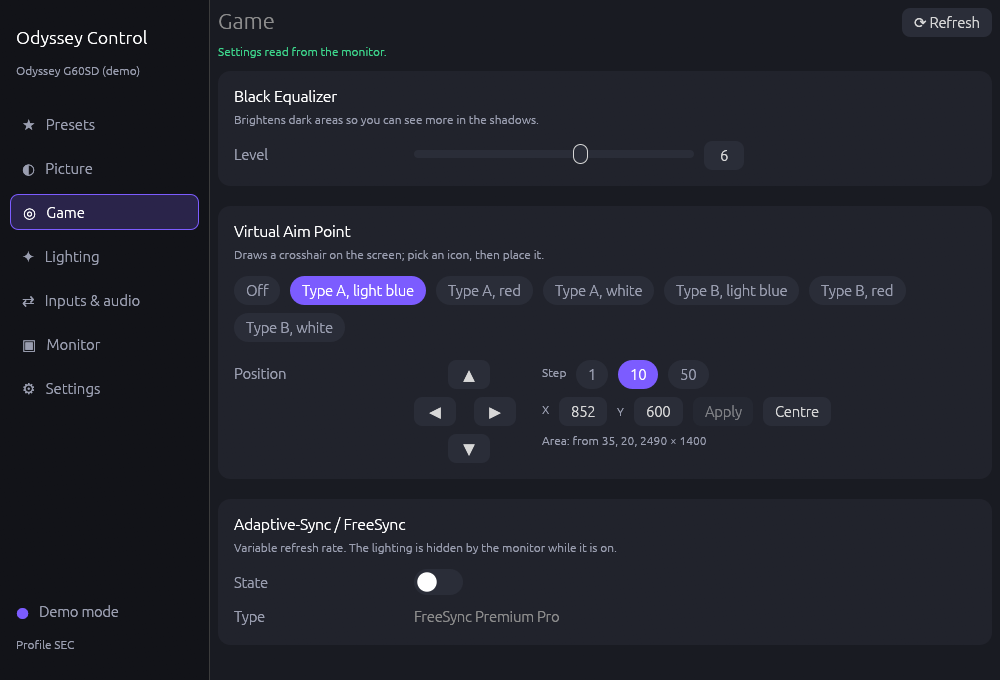
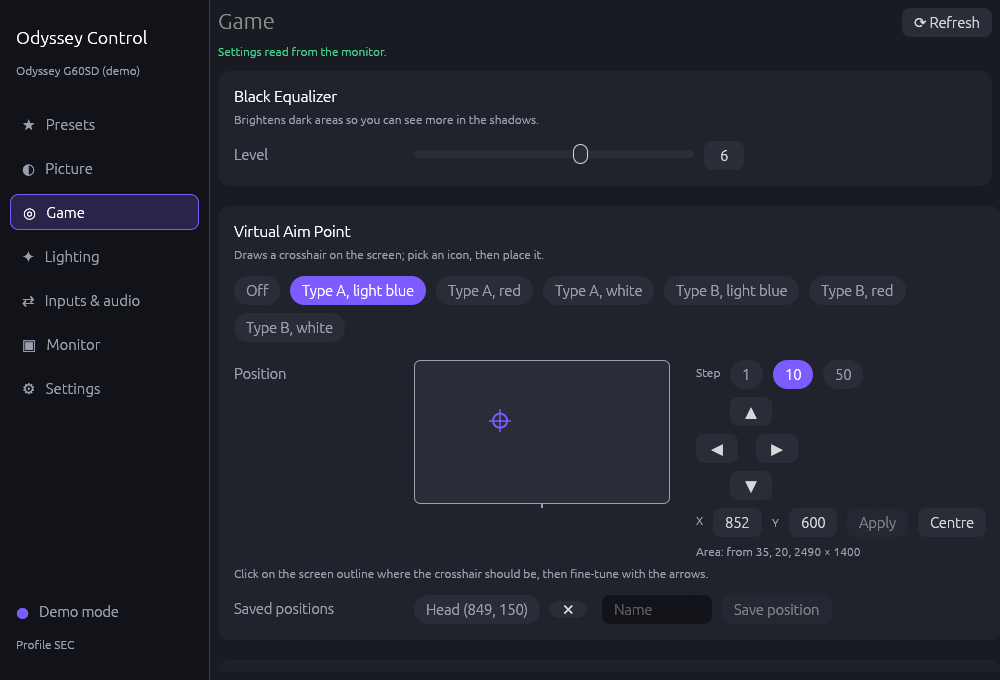
Aim point: clickable screen outline, saved positions, paced steps
Steps sent back to back are partly dropped by the firmware, so they go out 80 ms apart; the
icon is read again after a move so the GUI shows at once if the monitor switched it off.

diff --git a/src/gui/app.rs b/src/gui/app.rs
@@ -15,7 +15,7 @@ use odyssey_ctl::pip::{self, Channel, Source};
 use odyssey_ctl::presets as preset_logic;
 
 use crate::i18n::{Lang, tr};
-use crate::presets::{Preset, Presets};
+use crate::presets::{AimSpot, Preset, Presets};
 use crate::settings::Settings;
 use crate::theme::{self, ACCENT, ERR, OK, TEXT_DIM, WARN, dim};
 use crate::worker::{Action, Reply, Request, Worker};
@@ -114,6 +114,8 @@ pub struct App {
     /// Coordinates being typed for the aim point.
     aim_target: Option<Position>,
     aim_steps: u16,
+    /// Name typed for a saved crosshair position.
+    aim_name: String,
     displays: Option<Vec<DisplayInfo>>,
 }
 
@@ -166,6 +168,7 @@ impl App {
             aim_border: None,
             aim_target: None,
             aim_steps: 10,
+            aim_name: String::new(),
             displays: None,
         };
         app.load(true);
@@ -352,6 +355,9 @@ impl App {
                     self.aim_target = None;
                     if border.is_some() {
                         self.aim_border = border;
+                    } else {
+                        // After a move: show at once if the monitor switched the icon off.
+                        self.reread(&["aim-point"]);
                     }
                 }
                 Reply::Pip(status) => {
@@ -898,8 +904,9 @@ impl App {
         });
     }
 
-    /// Arrows, coordinates and a centre button for the crosshair. Its position and border are
-    /// read when first shown (stateful registers, so never with the other features).
+    /// Screen outline to click on, arrows, coordinates, centre button and saved positions for
+    /// the crosshair. Its position and border are read when first shown (stateful registers,
+    /// so never with the other features).
     fn aim_pad(&mut self, ui: &mut egui::Ui) {
         if self.aim_position.is_none() && !self.busy() {
             self.request(Request::AimState);
@@ -917,7 +924,21 @@ impl App {
         let mut target = None;
         theme::row(ui, &label, |ui| {
             ui.add_enabled_ui(enabled, |ui| {
+                if let Some(b) = self.aim_border {
+                    if let Some(p) = screen_pad(ui, b, pos, self.aim_target) {
+                        target = Some(p);
+                    }
+                    ui.add_space(16.0);
+                }
                 ui.vertical(|ui| {
+                    ui.horizontal(|ui| {
+                        ui.label(dim(self.t("aim.steps")));
+                        for n in [1u16, 10, 50] {
+                            if theme::chip(ui, self.aim_steps == n, &n.to_string()) {
+                                self.aim_steps = n;
+                            }
+                        }
+                    });
                     ui.horizontal(|ui| {
                         ui.add_space(34.0);
                         if ui.button(" ▲ ").clicked() {
@@ -937,17 +958,6 @@ impl App {
                         ui.add_space(34.0);
                         if ui.button(" ▼ ").clicked() {
                             moved = Some(Move::Down);
-                        }
-                    });
-                });
-                ui.add_space(16.0);
-                ui.vertical(|ui| {
-                    ui.horizontal(|ui| {
-                        ui.label(dim(self.t("aim.steps")));
-                        for n in [1u16, 10, 50] {
-                            if theme::chip(ui, self.aim_steps == n, &n.to_string()) {
-                                self.aim_steps = n;
-                            }
                         }
                     });
                     ui.horizontal(|ui| {
@@ -985,8 +995,62 @@ impl App {
                 });
             });
         });
+        ui.label(dim(self.t("aim.pad_hint")));
         if !allowed {
             self.lock_label(ui);
+        }
+        ui.add_space(6.0);
+        let label = self.t("aim.saved");
+        let mut save = false;
+        let mut delete = None;
+        theme::row(ui, &label, |ui| {
+            ui.horizontal_wrapped(|ui| {
+                for (i, spot) in self.presets.aim.iter().enumerate() {
+                    let here = Position {
+                        x: spot.x,
+                        y: spot.y,
+                    };
+                    let text = format!("{} ({}, {})", spot.name, spot.x, spot.y);
+                    if theme::chip(ui, here == pos, &text) && enabled && here != pos {
+                        target = Some(here);
+                    }
+                    if ui
+                        .small_button("✕")
+                        .on_hover_text(self.t("delete"))
+                        .clicked()
+                    {
+                        delete = Some(i);
+                    }
+                    ui.add_space(6.0);
+                }
+                let hint = self.t("aim.name");
+                ui.add(
+                    egui::TextEdit::singleline(&mut self.aim_name)
+                        .hint_text(hint)
+                        .desired_width(110.0),
+                );
+                let can = !self.aim_name.trim().is_empty();
+                if ui
+                    .add_enabled(can, egui::Button::new(self.t("aim.save")))
+                    .clicked()
+                {
+                    save = true;
+                }
+            });
+        });
+        if save {
+            let name = self.aim_name.trim().to_string();
+            self.presets.put_aim(AimSpot {
+                name,
+                x: pos.x,
+                y: pos.y,
+            });
+            self.aim_name.clear();
+            self.save_presets();
+        }
+        if let Some(i) = delete {
+            self.presets.aim.remove(i);
+            self.save_presets();
         }
         if let Some(dir) = moved {
             let steps = self.aim_steps;
@@ -1337,6 +1401,71 @@ impl App {
             });
         });
     }
+}
+
+/// A 16:9 outline standing for the screen, with the crosshair's allowed area mapped onto it.
+/// Draws the current position (and the one being typed) and returns the position clicked.
+fn screen_pad(
+    ui: &mut egui::Ui,
+    border: Border,
+    pos: Position,
+    draft: Option<Position>,
+) -> Option<Position> {
+    let size = Vec2::new(256.0, 144.0);
+    let (rect, response) = ui.allocate_exact_size(size, egui::Sense::click());
+    let inner = rect.shrink(6.0);
+    let to_pad = |p: Position| {
+        let fx = (f32::from(p.x.saturating_sub(border.x)) / f32::from(border.width.max(1)))
+            .clamp(0.0, 1.0);
+        let fy = (f32::from(p.y.saturating_sub(border.y)) / f32::from(border.height.max(1)))
+            .clamp(0.0, 1.0);
+        egui::pos2(
+            inner.left() + fx * inner.width(),
+            inner.top() + fy * inner.height(),
+        )
+    };
+    let painter = ui.painter();
+    let outline = if ui.is_enabled() {
+        TEXT_DIM
+    } else {
+        TEXT_DIM.gamma_multiply(0.5)
+    };
+    painter.rect(
+        rect,
+        6.0,
+        theme::CONTROL,
+        Stroke::new(1.0, outline),
+        egui::StrokeKind::Inside,
+    );
+    // Stand for the monitor.
+    painter.line_segment(
+        [
+            egui::pos2(rect.center().x, rect.bottom()),
+            egui::pos2(rect.center().x, rect.bottom() + 4.0),
+        ],
+        Stroke::new(2.0, outline),
+    );
+    if let Some(d) = draft {
+        painter.circle_stroke(to_pad(d), 5.0, Stroke::new(1.0, WARN));
+    }
+    let c = to_pad(pos);
+    let arm = Vec2::new(11.0, 0.0);
+    painter.line_segment([c - arm, c + arm], Stroke::new(1.5, ACCENT));
+    painter.line_segment([c - arm.yx(), c + arm.yx()], Stroke::new(1.5, ACCENT));
+    painter.circle_stroke(c, 6.0, Stroke::new(2.0, ACCENT));
+    if response.hovered() && ui.is_enabled() {
+        ui.ctx().set_cursor_icon(egui::CursorIcon::Crosshair);
+    }
+    if !response.clicked() {
+        return None;
+    }
+    let p = response.interact_pointer_pos()?;
+    let fx = ((p.x - inner.left()) / inner.width()).clamp(0.0, 1.0);
+    let fy = ((p.y - inner.top()) / inner.height()).clamp(0.0, 1.0);
+    Some(Position {
+        x: border.x + (fx * f32::from(border.width)).round() as u16,
+        y: border.y + (fy * f32::from(border.height)).round() as u16,
+    })
 }
 
 impl eframe::App for App {

diff --git a/src/gui/presets.rs b/src/gui/presets.rs
@@ -15,10 +15,20 @@ pub struct Preset {
     pub values: Values,
 }
 
+/// A saved crosshair position (firmware units, see `odyssey_ctl::aim`).
+#[derive(Debug, Clone, PartialEq, Serialize, Deserialize)]
+pub struct AimSpot {
+    pub name: String,
+    pub x: u16,
+    pub y: u16,
+}
+
 #[derive(Debug, Default, PartialEq, Serialize, Deserialize)]
 pub struct Presets {
     #[serde(default, rename = "preset")]
     pub list: Vec<Preset>,
+    #[serde(default, rename = "aim")]
+    pub aim: Vec<AimSpot>,
 }
 
 impl Presets {
@@ -39,6 +49,18 @@ impl Presets {
         {
             Some(existing) => *existing = preset,
             None => self.list.push(preset),
+        }
+    }
+
+    /// Adds a crosshair position, or replaces the one with the same name (case-insensitive).
+    pub fn put_aim(&mut self, spot: AimSpot) {
+        match self
+            .aim
+            .iter_mut()
+            .find(|a| a.name.eq_ignore_ascii_case(&spot.name))
+        {
+            Some(existing) => *existing = spot,
+            None => self.aim.push(spot),
         }
     }
 }
@@ -69,8 +91,28 @@ mod tests {
             name: "Notte".into(),
             values,
         });
+        p.put_aim(AimSpot {
+            name: "Head".into(),
+            x: 849,
+            y: 200,
+        });
+        p.put_aim(AimSpot {
+            name: "head".into(),
+            x: 849,
+            y: 210,
+        });
+        assert_eq!(p.aim.len(), 1);
+        assert_eq!(p.aim[0].y, 210);
         let text = toml::to_string(&p).unwrap();
         assert!(text.contains("[[preset]]") && text.contains("name = \"Notte\""));
+        assert!(text.contains("[[aim]]"));
         assert_eq!(toml::from_str::<Presets>(&text).unwrap(), p);
+        // Files from 0.1.0 have no [[aim]] table.
+        assert!(
+            toml::from_str::<Presets>("[[preset]]\nname = \"a\"\n[preset.values]\n")
+                .unwrap()
+                .aim
+                .is_empty()
+        );
     }
 }

diff --git a/src/gui/i18n.rs b/src/gui/i18n.rs
@@ -184,6 +184,14 @@ const STRINGS: &[(&str, &str, &str)] = &[
     ("aim.apply", "Apply", "Applica"),
     ("aim.at", "Aim point at {x}, {y}", "Mirino in {x}, {y}"),
     (
+        "aim.pad_hint",
+        "Click on the screen outline where the crosshair should be, then fine-tune with the arrows.",
+        "Clicca sulla sagoma dello schermo dove vuoi il mirino, poi rifinisci con le frecce.",
+    ),
+    ("aim.saved", "Saved positions", "Posizioni salvate"),
+    ("aim.save", "Save position", "Salva posizione"),
+    ("aim.name", "Name", "Nome"),
+    (
         "card.sync",
         "Adaptive-Sync / FreeSync",
         "Adaptive-Sync / FreeSync",

diff --git a/src/actions.rs b/src/actions.rs
@@ -186,7 +186,12 @@ pub fn aim_move(
 ) -> Result<aim::Position, Error> {
     check_action("aim-move", allow_unverified)?;
     check_aim_on(m)?;
-    for _ in 0..steps.max(1) {
+    for i in 0..steps.max(1) {
+        if i > 0 {
+            // Steps sent back to back get dropped by the firmware (10 steps moved 6-8 units
+            // instead of 20); SDM sends one per key press.
+            sleep(Duration::from_millis(80));
+        }
         aim::step(m, dir)?;
     }
     sleep(Duration::from_millis(200));

diff --git a/CHANGELOG.md b/CHANGELOG.md
@@ -7,9 +7,9 @@ All notable changes to this project are documented here. The format follows
 ## [Unreleased]
 
 ### Added
-- Virtual Aim Point placement: `aim status`, `aim move`, `aim position` (and `--center`); arrows,
-  coordinates and a centre button in the GUI. The stateful `EE`/`EF` registers are read in full
-  cycles.
+- Virtual Aim Point placement: `aim status`, `aim move`, `aim position` (and `--center`). In the
+  GUI: a screen outline to click on, arrows, coordinates, a centre button and saved positions
+  (`[[aim]]` in `presets.toml`). The stateful `EE`/`EF` registers are read in full cycles.
 - Picture-in-Picture control: `pip on|off|mode|size|position|source|status`; switch, size, corner,
   input of each window and sound in the GUI.
 - Adaptive-Sync / FreeSync is writable (switch in the Game page); presets can hold it.
